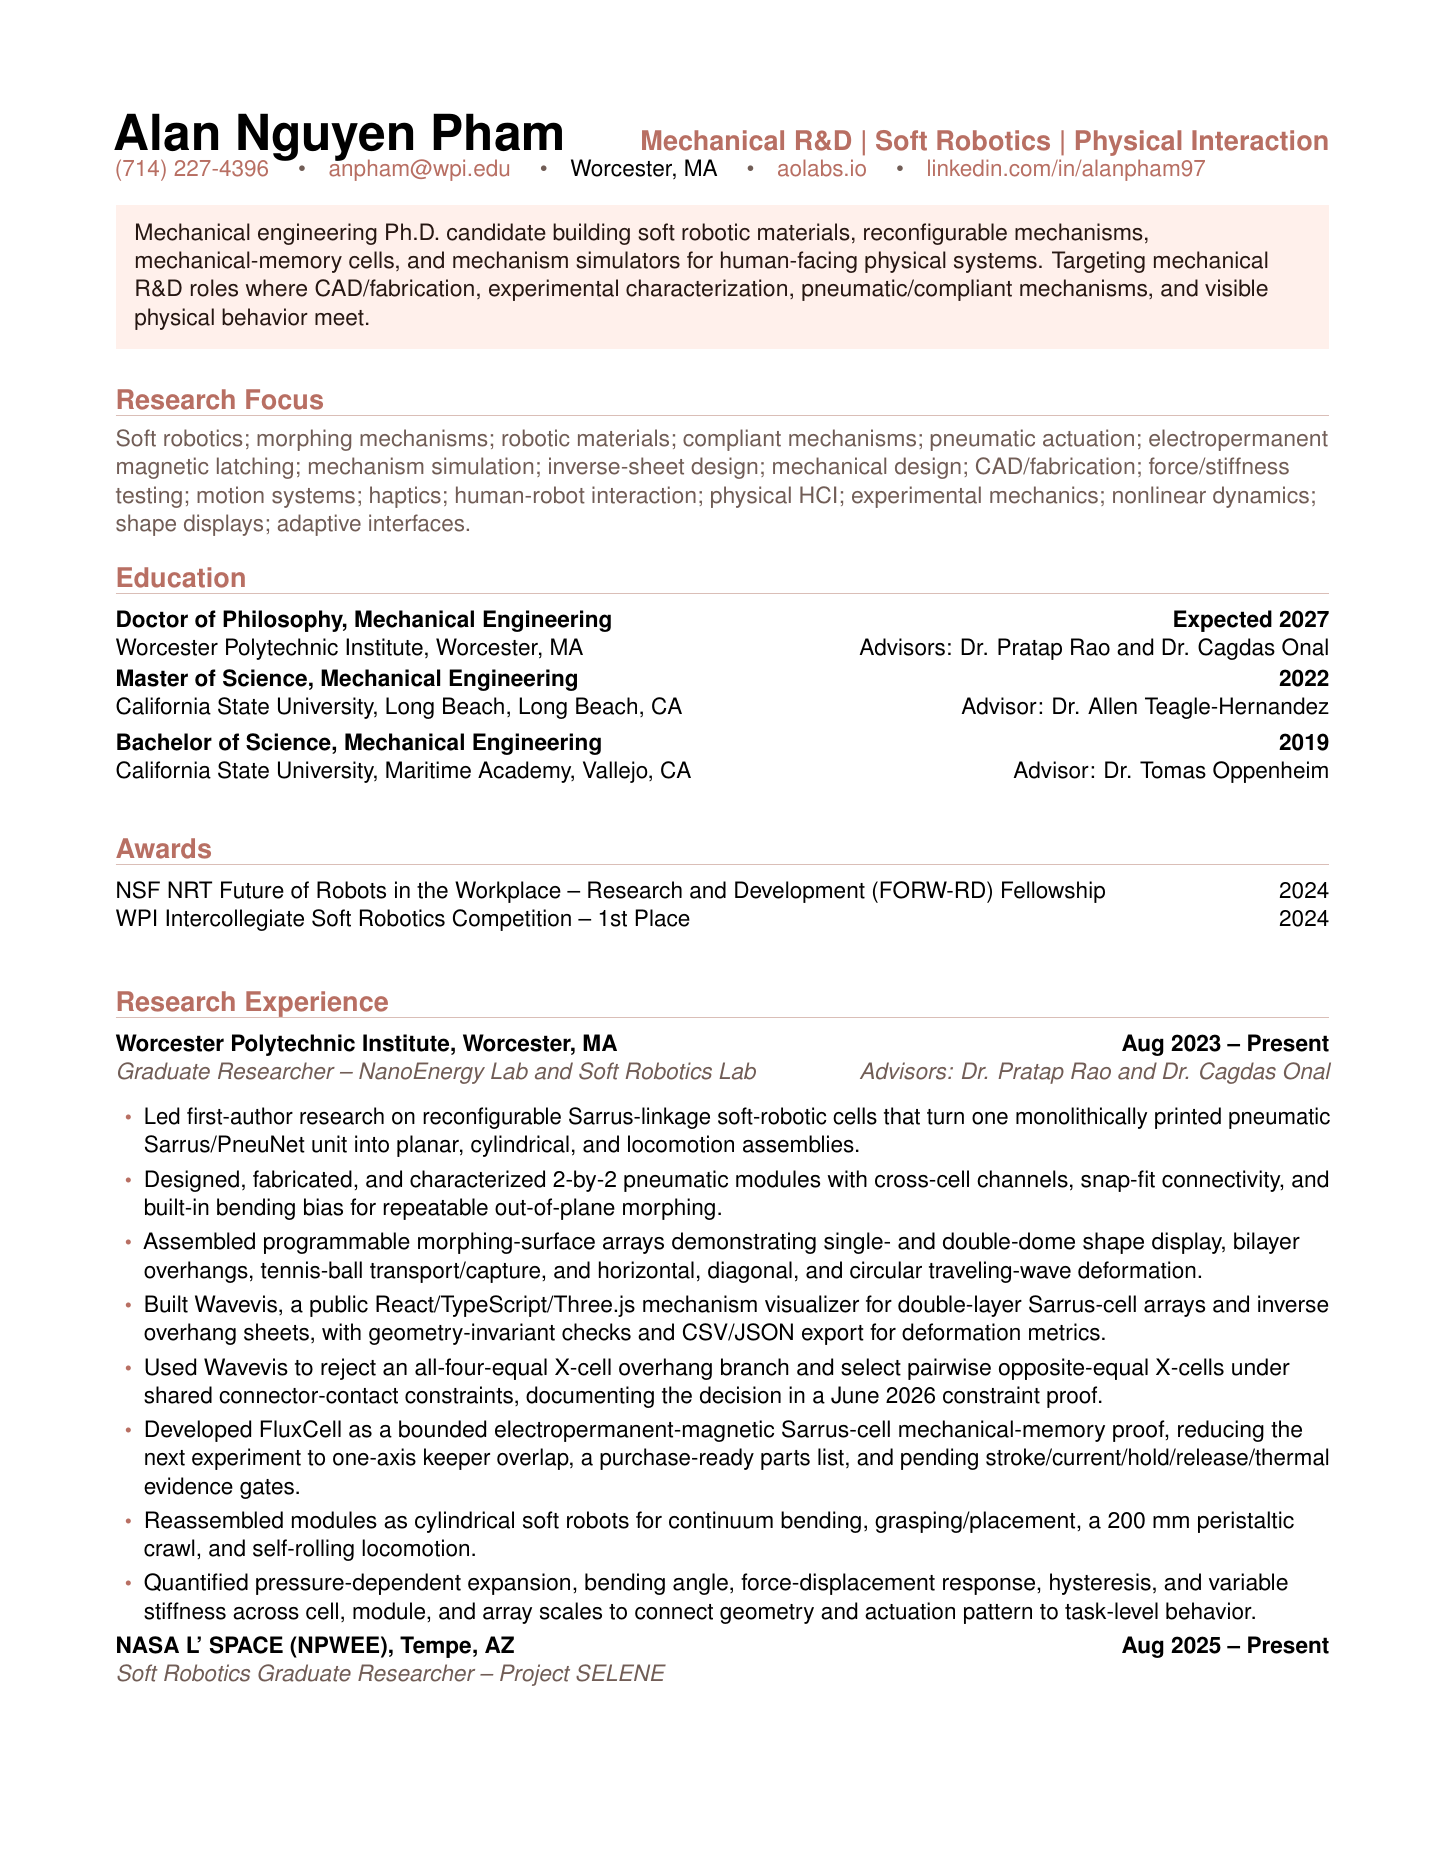
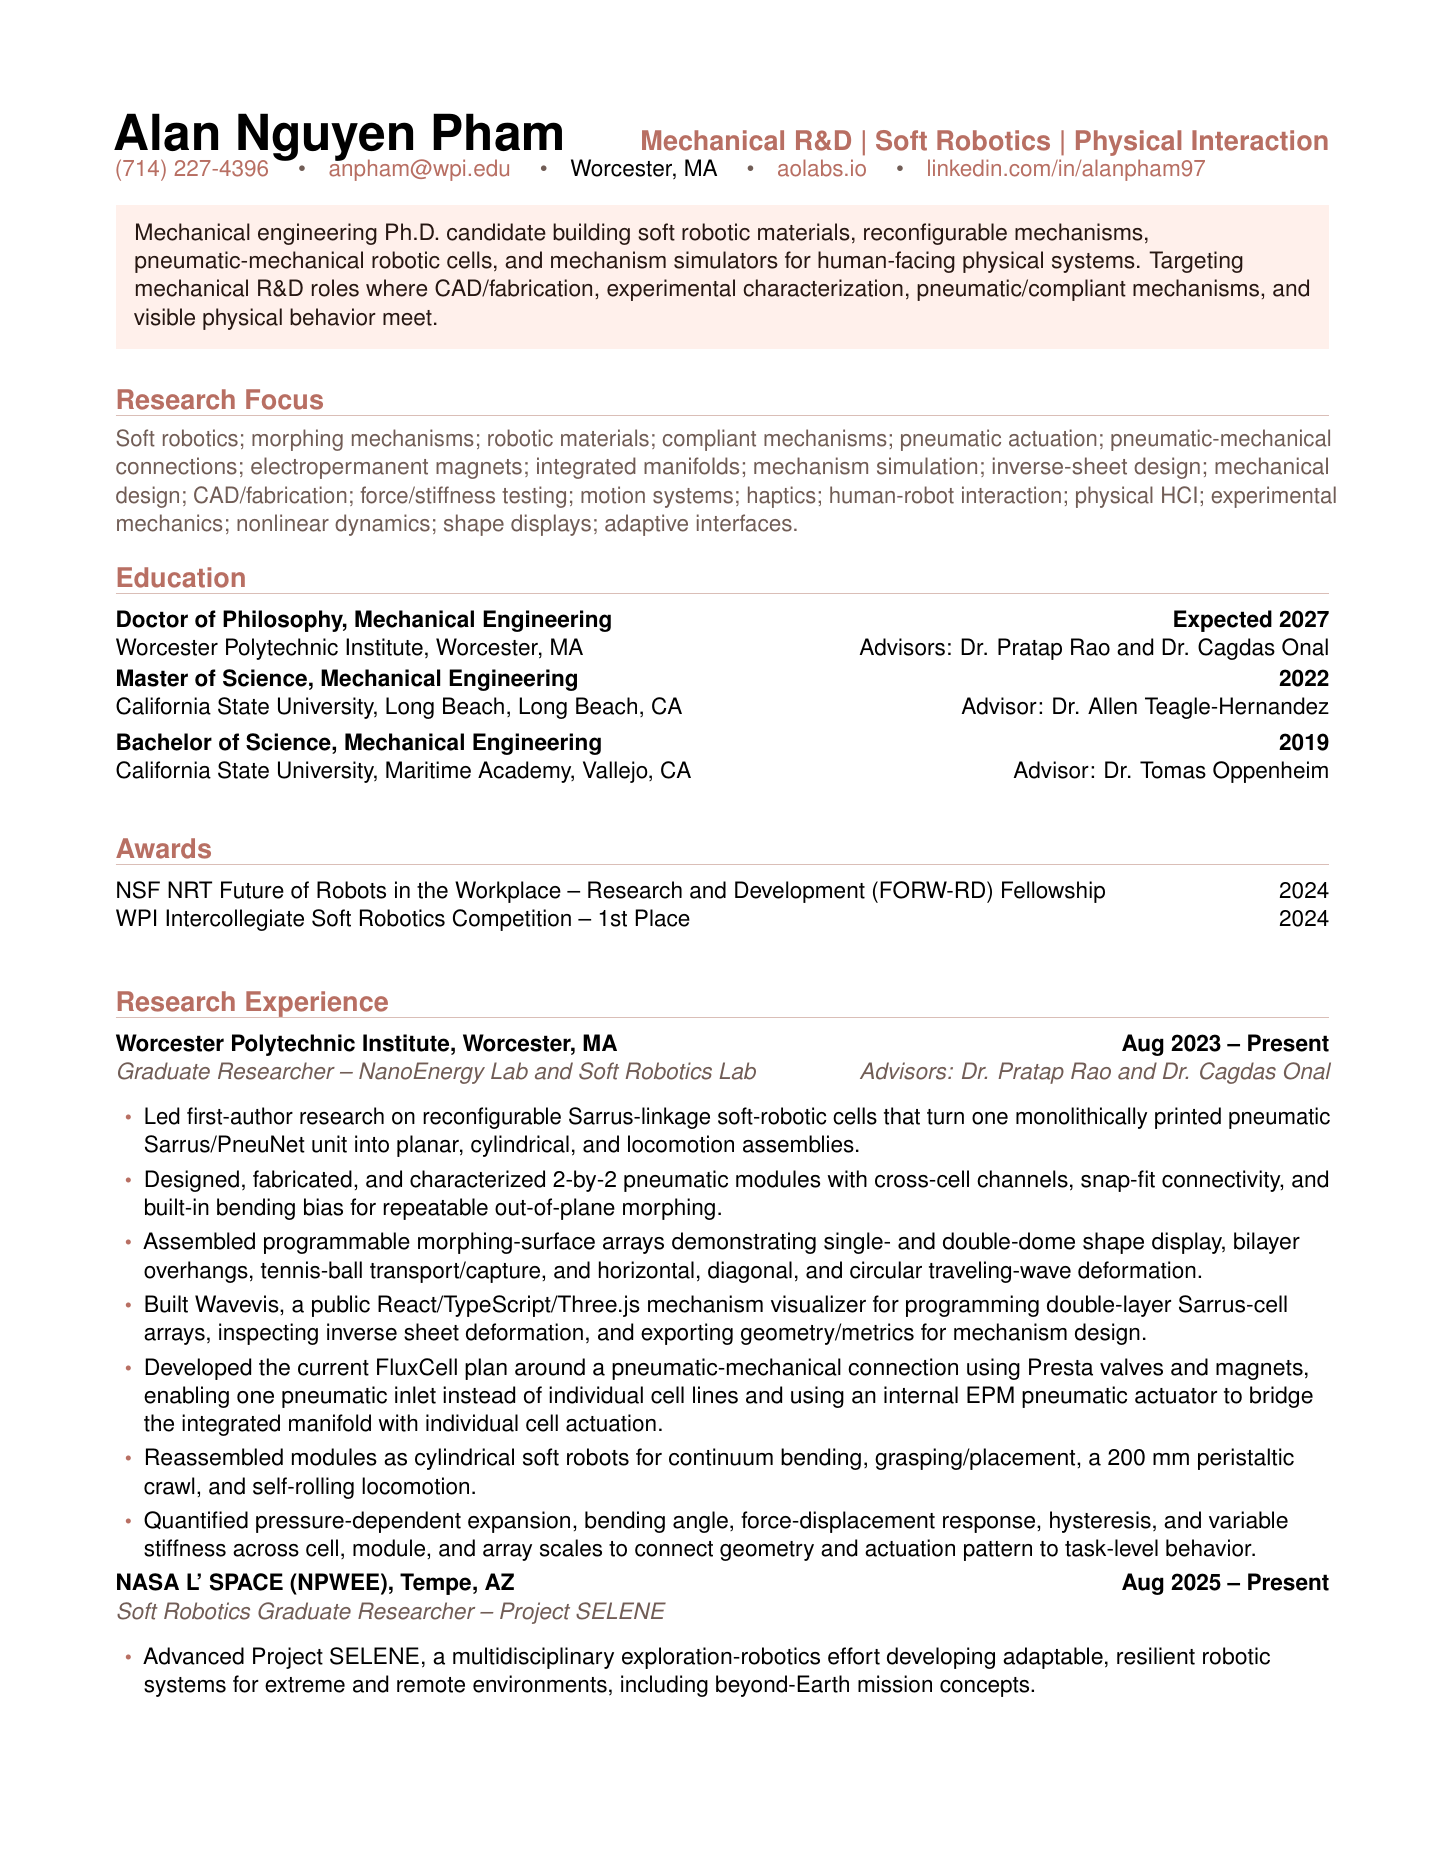
Correct public CV research wording

Changed region(s): [[0.0623, 0.6824, 0.9031, 0.8995], [0.0623, 0.2171, 0.9343, 0.3102], [0.0934, 0.1241, 0.872, 0.1861]]

diff --git a/index.html b/index.html
@@ -4,7 +4,7 @@
   <meta charset="utf-8" />
   <meta name="viewport" content="width=device-width, initial-scale=1" />
   <title>cv.aolabs.io</title>
-  <meta name="description" content="Alan Nguyen Pham's mechanical R&D CV for soft robotics, mechanism simulation, mechanical memory, experimental mechanics, and human-facing physical prototypes.">
+  <meta name="description" content="Alan Nguyen Pham's mechanical R&D CV for soft robotics, mechanism simulation, pneumatic-mechanical robotic cells, experimental mechanics, and human-facing physical prototypes.">
   <link rel="canonical" href="https://cv.aolabs.io/" />
   <meta name="twitter:image:alt" content="cv preview card.">
   <meta name="twitter:image" content="https://cv.aolabs.io/og-image-20260506-contained.png">
@@ -17,11 +17,11 @@
   <meta property="og:type" content="website">
   <meta property="og:site_name" content="AO Labs">
   <meta property="og:title" content="cv">
-  <meta property="og:description" content="Mechanical R&D CV for soft robotics, mechanism simulation, mechanical memory, experimental mechanics, and human-facing physical prototypes.">
+  <meta property="og:description" content="Mechanical R&D CV for soft robotics, mechanism simulation, pneumatic-mechanical robotic cells, experimental mechanics, and human-facing physical prototypes.">
   <meta property="og:url" content="https://cv.aolabs.io/">
   <meta name="twitter:card" content="summary_large_image">
   <meta name="twitter:title" content="cv">
-  <meta name="twitter:description" content="Mechanical R&D CV for soft robotics, mechanism simulation, mechanical memory, experimental mechanics, and human-facing physical prototypes.">
+  <meta name="twitter:description" content="Mechanical R&D CV for soft robotics, mechanism simulation, pneumatic-mechanical robotic cells, experimental mechanics, and human-facing physical prototypes.">
   <link rel="icon" href="https://aolabs.io/icons/cv.svg?v=20260523-tab-icons" type="image/svg+xml">
   <link rel="stylesheet" href="https://aolabs.io/suite-header.css?v=20260516-suite-bloom">
   <link rel="stylesheet" href="/styles.css?v=20260508-homeicon">
@@ -44,7 +44,7 @@
 
   <main class="shell cv-shell">
     <section class="cv-intro" aria-label="cv summary">
-      <p>Mechanical R&amp;D CV for soft robotics, mechanism simulation, mechanical memory, experimental mechanics, and human-facing physical prototypes.</p>
+      <p>Mechanical R&amp;D CV for soft robotics, mechanism simulation, pneumatic-mechanical robotic cells, experimental mechanics, and human-facing physical prototypes.</p>
     </section>
     <section class="viewer" aria-label="cv preview">
       <a class="document-link" href="/alan-nguyen-pham-cv.pdf?v=20260605-research" aria-label="Open Alan Nguyen Pham CV PDF">
